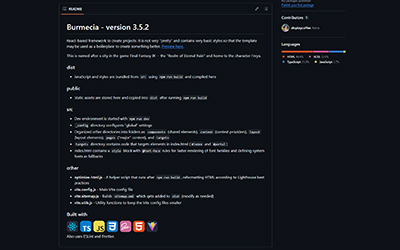
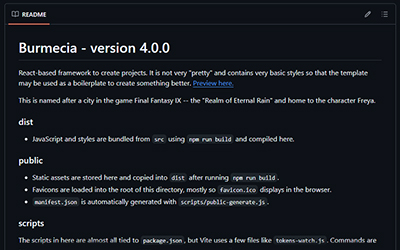
Add page titles to routes and detail pages, compress Matt and Adria project images, and update README
- Add PageTitle to the main routes and to gallery and contents detail pages
- Re-encode the Matt and Adria project image and thumbnail at quality 80 (6.6 MB to 1.5 MB, 62 KB to 12 KB)
- Update the Burmecia cheat code image and the updates list
- Update README dependency list

diff --git a/src/components/contents/Contents.tsx b/src/components/contents/Contents.tsx
@@ -22,6 +22,7 @@ import { useAppContext } from '../../context/scripts/context-hooks';
 import { contents as contentsUtils } from './scripts/contents';
 
 /* Components */
+import { PageTitle } from '../page-title/PageTitle';
 import { Image } from '../image/Image';
 import { HeaderIcon, PixelBlock } from '../blocks/Blocks';
 import { Button } from '../forms/Forms';
@@ -288,50 +289,54 @@ export const ContentsBody = (props: ContentsBodyProps) => {
 		current ? (
 			<div id={`contents-${current.handle}`} className="contents margin-trim">
 				{hasHeader ? (
-					<header className="contents-header">
-						{current?.name ? <HeaderIcon className={'contents-header-title'}>{current.name}</HeaderIcon> : null}
+					<>
+						<PageTitle title={current.name} />
 
-						<ContentsDate content={current} />
+						<header className="contents-header">
+							{current?.name ? <HeaderIcon className={'contents-header-title'}>{current.name}</HeaderIcon> : null}
 
-						{tagsConfig.hasTags ? (
-							<ContentsTags>
-								{tagsConfig.values.map((tag, index) => {
-									// Set active state for tag
-									tag.active = searchParams?.includes(tag.value);
+							<ContentsDate content={current} />
 
-									return (
-										<div className="contents-tags-column" key={index}>
-											<Button
-												className={tag.active ? 'active' : ''}
-												label={tag.label}
-												size={'x-small'}
-												variant={tag.active ? 'secondary' : 'primary'}
-												aria-pressed={tag.active}
-												onClick={(e: MouseEvent<HTMLButtonElement>) => {
-													// Set up current param
-													const currentParam = `${contentsUtils.params.url.tag}=${tag.value}`;
+							{tagsConfig.hasTags ? (
+								<ContentsTags>
+									{tagsConfig.values.map((tag, index) => {
+										// Set active state for tag
+										tag.active = searchParams?.includes(tag.value);
 
-													// Create url
-													let tagUrl = `${parentPage}?${currentParam}`;
+										return (
+											<div className="contents-tags-column" key={index}>
+												<Button
+													className={tag.active ? 'active' : ''}
+													label={tag.label}
+													size={'x-small'}
+													variant={tag.active ? 'secondary' : 'primary'}
+													aria-pressed={tag.active}
+													onClick={(e: MouseEvent<HTMLButtonElement>) => {
+														// Set up current param
+														const currentParam = `${contentsUtils.params.url.tag}=${tag.value}`;
 
-													// If current tag is not in search params, add it
-													if (searchParams) {
-														const newParams = !searchParams.includes(currentParam)
-															? `${searchParams}&${currentParam}`
-															: searchParams;
-														tagUrl = `${parentPage}${newParams}`;
-													}
+														// Create url
+														let tagUrl = `${parentPage}?${currentParam}`;
 
-													// Go back to content back with param
-													handleTransition(e, tagUrl);
-												}}
-											/>
-										</div>
-									);
-								})}
-							</ContentsTags>
-						) : null}
-					</header>
+														// If current tag is not in search params, add it
+														if (searchParams) {
+															const newParams = !searchParams.includes(currentParam)
+																? `${searchParams}&${currentParam}`
+																: searchParams;
+															tagUrl = `${parentPage}${newParams}`;
+														}
+
+														// Go back to content back with param
+														handleTransition(e, tagUrl);
+													}}
+												/>
+											</div>
+										);
+									})}
+								</ContentsTags>
+							) : null}
+						</header>
+					</>
 				) : null}
 
 				{current?.description ? (

diff --git a/src/routes/about/index.lazy.tsx b/src/routes/about/index.lazy.tsx
@@ -5,8 +5,12 @@ import './styles/about.scss';
 import { createLazyFileRoute } from '@tanstack/react-router';
 
 /* Components */
+import { PageTitle } from '../../components/page-title/PageTitle';
 import { HeaderIcon, LinkExternal, List } from '../../components/blocks/Blocks';
 import { Image } from '../../components/image/Image';
+
+/* Page title */
+const title = 'About';
 
 export const Route = createLazyFileRoute('/about/')({
 	component: RouteComponent,
@@ -15,7 +19,9 @@ export const Route = createLazyFileRoute('/about/')({
 function RouteComponent() {
 	return (
 		<>
-			<HeaderIcon>About</HeaderIcon>
+			<PageTitle title={title} />
+
+			<HeaderIcon>{title}</HeaderIcon>
 
 			<div className="about-photo pixel-border image-wrapper image-wrapper-float-left">
 				<Image alt={'Me riding a real dinosaur'} hasLazy={true} image={'/assets/images/theme/me.jpg'} hasWrapper={false} />

diff --git a/src/routes/cheat-codes/index.lazy.tsx b/src/routes/cheat-codes/index.lazy.tsx
@@ -5,8 +5,12 @@ import { createLazyFileRoute } from '@tanstack/react-router';
 import { cheatCodesOptionsLinks } from './scripts/cheat-codes-options';
 
 /* Components */
+import { PageTitle } from '../../components/page-title/PageTitle';
 import { Contents } from '../../components/contents/Contents';
 import { HeaderIcon } from '../../components/blocks/Blocks';
+
+/* Page title */
+const title = 'Cheat Codes';
 
 export const Route = createLazyFileRoute('/cheat-codes/')({
 	component: RouteComponent,
@@ -15,7 +19,9 @@ export const Route = createLazyFileRoute('/cheat-codes/')({
 function RouteComponent() {
 	return (
 		<>
-			<HeaderIcon>Cheat Codes</HeaderIcon>
+			<PageTitle title={title} />
+
+			<HeaderIcon>{title}</HeaderIcon>
 
 			<p>
 				This page contains code snippets for sites, projects, or whatever your heart fancies. A few of these snippets were originally created

diff --git a/src/routes/articles/index.lazy.tsx b/src/routes/articles/index.lazy.tsx
@@ -8,8 +8,12 @@ import { createLazyFileRoute } from '@tanstack/react-router';
 import { articlesOptionsLinks } from './scripts/articles-options';
 
 /* Components */
+import { PageTitle } from '../../components/page-title/PageTitle';
 import { Contents } from '../../components/contents/Contents';
 import { HeaderIcon } from '../../components/blocks/Blocks';
+
+/* Page title */
+const title = 'Articles';
 
 export const Route = createLazyFileRoute('/articles/')({
 	component: RouteComponent,
@@ -18,7 +22,9 @@ export const Route = createLazyFileRoute('/articles/')({
 function RouteComponent() {
 	return (
 		<>
-			<HeaderIcon>Articles</HeaderIcon>
+			<PageTitle title={title} />
+
+			<HeaderIcon>{title}</HeaderIcon>
 
 			<p>
 				Below you'll find a few articles I wrote. Most of these are very basic (and some might be a little outdated), but maybe they're still

diff --git a/src/routes/projects/index.lazy.tsx b/src/routes/projects/index.lazy.tsx
@@ -5,8 +5,12 @@ import { createLazyFileRoute } from '@tanstack/react-router';
 import { projectsOptionsLinks } from './scripts/projects-options';
 
 /* Components */
+import { PageTitle } from '../../components/page-title/PageTitle';
 import { HeaderIcon } from '../../components/blocks/Blocks';
 import { Gallery } from '../../components/gallery/Gallery';
+
+/* Page title */
+const title = 'Projects';
 
 export const Route = createLazyFileRoute('/projects/')({
 	component: RouteComponent,
@@ -15,7 +19,9 @@ export const Route = createLazyFileRoute('/projects/')({
 function RouteComponent() {
 	return (
 		<>
-			<HeaderIcon>Projects</HeaderIcon>
+			<PageTitle title={title} />
+
+			<HeaderIcon>{title}</HeaderIcon>
 
 			<p>
 				Here is a collection of <em>almost</em> all of the web projects that I have worked on. These projects are mostly personal ones, though

diff --git a/src/routes/art/index.lazy.tsx b/src/routes/art/index.lazy.tsx
@@ -5,8 +5,12 @@ import { createLazyFileRoute } from '@tanstack/react-router';
 import { artOptionsLinks } from './scripts/art-options';
 
 /* Components */
+import { PageTitle } from '../../components/page-title/PageTitle';
 import { HeaderIcon } from '../../components/blocks/Blocks';
 import { Gallery } from '../../components/gallery/Gallery';
+
+/* Page title */
+const title = 'Art';
 
 export const Route = createLazyFileRoute('/art/')({
 	component: RouteComponent,
@@ -15,7 +19,9 @@ export const Route = createLazyFileRoute('/art/')({
 function RouteComponent() {
 	return (
 		<>
-			<HeaderIcon>Art</HeaderIcon>
+			<PageTitle title={title} />
+
+			<HeaderIcon>{title}</HeaderIcon>
 
 			<p>
 				Below are various different art pieces I have completed over the years. Please do not take any of these without permission as they are

diff --git a/src/components/gallery/Gallery.tsx b/src/components/gallery/Gallery.tsx
@@ -13,6 +13,7 @@ import { useAppContext } from '../../context/scripts/context-hooks';
 import { gallery as galleryUtils } from './scripts/gallery';
 
 /* Components */
+import { PageTitle } from '../page-title/PageTitle';
 import { Image } from '../image/Image';
 import { HeaderIcon, LinkExternal, List, ListItem, PixelBlock } from '../blocks/Blocks';
 import { Button } from '../forms/Forms';
@@ -229,6 +230,8 @@ export const GalleryBody = (props: GalleryBodyProps) => {
 	return showGallery ? (
 		current ? (
 			<div id={`gallery-${current.handle}`} className={`gallery${isPixels ? ' gallery-pixels' : ''}`}>
+				{current.name && <PageTitle title={current.name} />}
+
 				<div className="gallery-body flex-wrap">
 					{current.name && (
 						<header className="gallery-header">

diff --git a/src/routes/cheat-codes/scripts/cheat-codes.ts b/src/routes/cheat-codes/scripts/cheat-codes.ts
@@ -33,8 +33,8 @@ export const cheatCodes = [
 		id: 10,
 		name: `Burmecia`,
 		date: `03.28.22`,
-		updated: `08.02.26`,
-		tags: `React, TypeScript, JavaScript, Sass, Vite, Framework`,
+		updated: `09.28.26`,
+		tags: `React, TypeScript, JavaScript, Sass, Vite, TanStack Router, Framework`,
 		thumb: `${cheatCodesPath}burmecia-400x250.jpg`,
 		description: `React-based framework to create projects. Primarily built with React, TypeScript, JavaScript, Sass, and Vite. It is not very "pretty" and contains very basic styles so that the template may be used as a boilerplate to create something better.`,
 		description2: `This is named after a city in the game Final Fantasy IX -- the "Realm of Eternal Rain" and home to the character Freya.`,

diff --git a/src/routes/resume/index.lazy.tsx b/src/routes/resume/index.lazy.tsx
@@ -6,10 +6,14 @@ import { createLazyFileRoute } from '@tanstack/react-router';
 import { Fragment } from 'react';
 
 /* Scripts */
+import { PageTitle } from '../../components/page-title/PageTitle';
 import { resume } from './scripts/resume';
 
 /* Components */
 import { HeaderIcon, LinkExternal, List, ListItem } from '../../components/blocks/Blocks';
+
+/* Page title */
+const title = 'Resume';
 
 export const Route = createLazyFileRoute('/resume/')({
 	component: RouteComponent,
@@ -21,7 +25,9 @@ function RouteComponent() {
 
 	return (
 		<>
-			<HeaderIcon>Resume</HeaderIcon>
+			<PageTitle title={title} />
+
+			<HeaderIcon>{title}</HeaderIcon>
 
 			<div className="resume-section resume-note margin-trim">
 				<p>

diff --git a/src/routes/index/scripts/updates.ts b/src/routes/index/scripts/updates.ts
@@ -1,5 +1,10 @@
 export const updates = [
 	{
+		id: 17,
+		date: `09.28.26`,
+		description: `Again, not a bunch of huge changes though I did rework my entire set of projects, including this one. I also added a new "project" screenshot for my "Matt and Adria" site.`,
+	},
+	{
 		id: 16,
 		date: `08.04.26`,
 		description: `Added accessibility updates, "WordPress Block Preview" cheat code, and updated my resume.`,

diff --git a/README.md b/README.md
@@ -5,4 +5,4 @@ Portfolio of Adria Murphy. [Go here](https://display.coffee) to view.
 ### Built with
 
 ![Built with](https://skillicons.dev/icons?i=react,ts,js,css,sass,html,vite)<br />
-Also uses ESLint and Prettier.
+Also uses TanStack Router, Style Dictionary, unplugin-icons with Lucide, react-error-boundary, ESLint, and Prettier.
